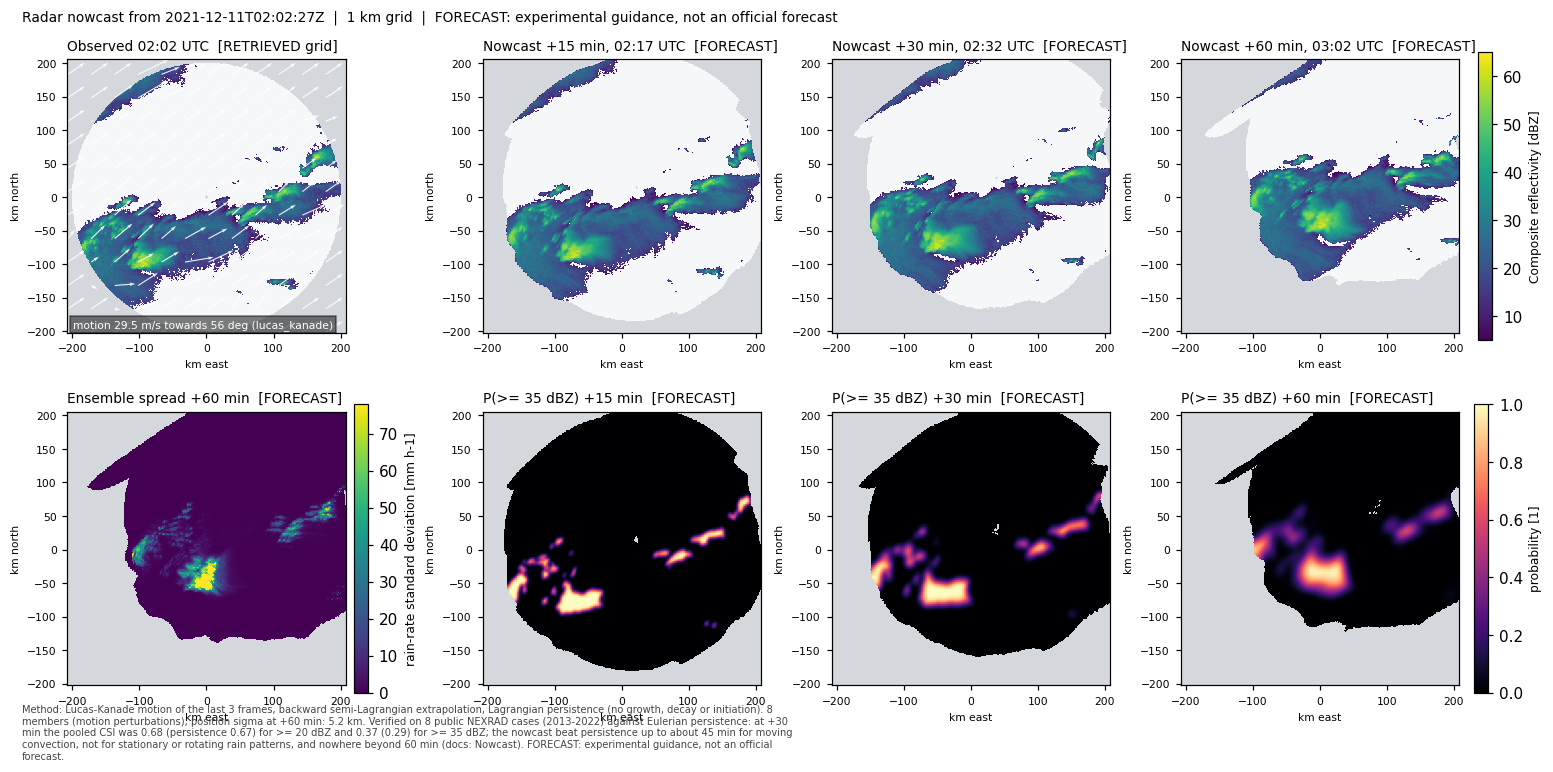
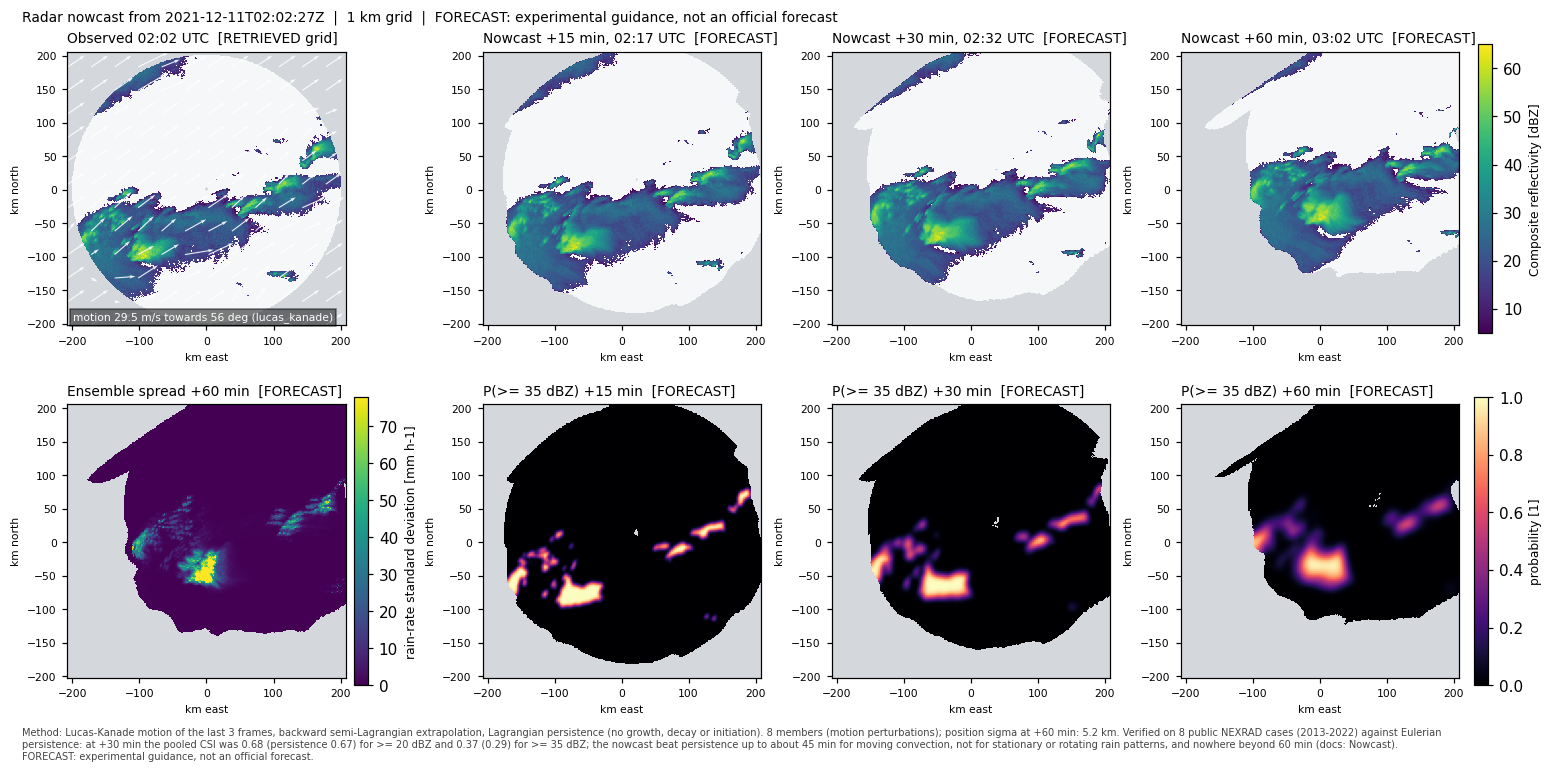
Nowcast figure: the footer gets the room its lines need
The skill statement is longer now; the layout rectangle is set from the
number of wrapped footer lines instead of a fixed 5 %.

diff --git a/python/engine/nowcast/products.py b/python/engine/nowcast/products.py
@@ -298,7 +298,7 @@ def figure(
     ]
     n = 1 + len(picks)
     fig, axes = plt.subplots(2, n, figsize=(3.3 * n + 0.8, 6.9), constrained_layout=True)
-    fig.get_layout_engine().set(rect=(0, 0.05, 1, 0.96))  # room for the footer and the title
+    fig.get_layout_engine().set(rect=(0, 0.05, 1, 0.96))  # adjusted to the footer below
     axes = np.atleast_2d(axes)
     is_refl = nc.field == "reflectivity"
     origin = nc.config["origin_index"]
@@ -432,7 +432,11 @@ def figure(
     )
     import textwrap
 
-    fig.text(0.01, 0.005, textwrap.fill(footer, 150), fontsize=6.5, color="#444", va="bottom")
+    wrapped = textwrap.fill(footer, max(100, int(fig.get_figwidth() * 20)))
+    n_lines = wrapped.count("\n") + 1
+    # room for the footer (about 0.11 inch per line of 6.5 pt) and the title
+    fig.get_layout_engine().set(rect=(0, 0.012 + 0.11 * n_lines / fig.get_figheight(), 1, 0.96))
+    fig.text(0.01, 0.005, wrapped, fontsize=6.5, color="#444", va="bottom")
     fig.suptitle(
         f"Radar nowcast from {prov.iso_utc(nc.origin_time)}  |  {fr.cell_m / 1e3:g} km grid  |  "
         "FORECAST: experimental guidance, not an official forecast",
